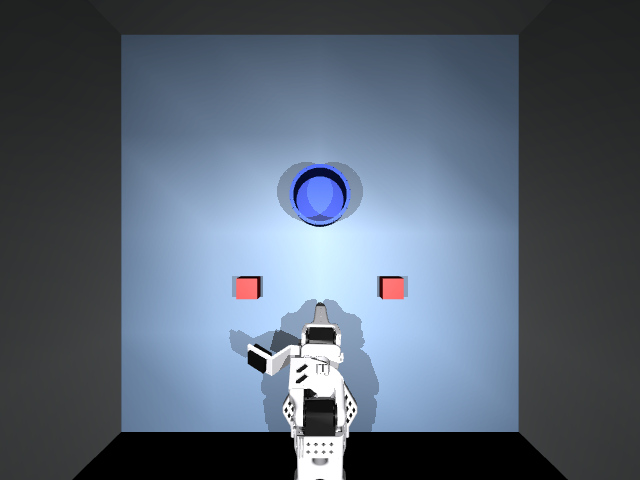
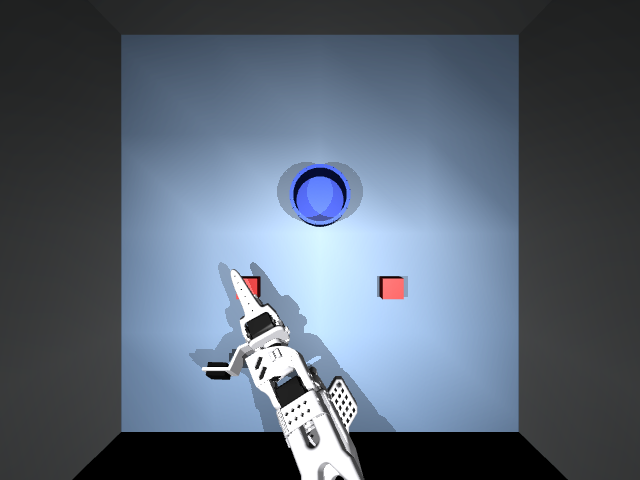
fix the gripper to not tough the table

Changed region(s): [[0.2812, 0.5312, 0.625, 1.0]]

diff --git a/sim2real_soarm/data/record.py b/sim2real_soarm/data/record.py
@@ -52,6 +52,7 @@ def record(
     seed: int = 0,
     use_dr: bool = True,
     max_attempts: int | None = None,
+    overwrite: bool = False,
     n_substeps: int = 17,
 ) -> dict:
     from lerobot.datasets.lerobot_dataset import LeRobotDataset
@@ -61,6 +62,19 @@ def record(
     from sim2real_soarm.sim.scene import Scene
 
     out = Path(out)
+    # Check before building the scene: LeRobot's create() requires a fresh dir,
+    # and doing this first keeps the error path clean (no renderer to tear down).
+    if out.exists():
+        if overwrite:
+            import shutil
+            shutil.rmtree(out)
+            print(f"Removed existing {out} (--overwrite).")
+        else:
+            raise SystemExit(
+                f"Output dir already exists: {out}\n"
+                f"  Pass --overwrite to replace it, or use a different --out."
+            )
+
     scene = Scene()
     expert = ScriptedExpert(scene)
     dr = DomainRandomizer(scene) if use_dr else None
@@ -135,11 +149,13 @@ def main(argv=None):
     p.add_argument("--seed", type=int, default=0)
     p.add_argument("--no-dr", action="store_true", help="disable domain randomization")
     p.add_argument("--max-attempts", type=int, default=None)
+    p.add_argument("--overwrite", action="store_true",
+                   help="replace the output dir if it already exists")
     args = p.parse_args(argv)
     record(
         num_episodes=args.num_episodes, out=Path(args.out), repo_id=args.repo_id,
         task=args.task, seed=args.seed, use_dr=not args.no_dr,
-        max_attempts=args.max_attempts,
+        max_attempts=args.max_attempts, overwrite=args.overwrite,
     )
 
 

diff --git a/sim2real_soarm/sim/scene.py b/sim2real_soarm/sim/scene.py
@@ -194,9 +194,12 @@ class Scene:
             contype=0, conaffinity=0, group=2,
         )
 
-        # True grasp point (between the fingers). The stock ``gripperframe`` site
-        # sits ~7.6 cm beyond the fingers, so IK must target this instead.
-        spec.body("gripper").add_site(name="tcp", pos=[0.017, 0.0, -0.022])
+        # Grasp reference at the FINGERTIP (the lowest gripper vertex). Targeting
+        # the fingertip at a table cube keeps the rest of the gripper above the
+        # table (~+20 mm clearance); targeting a point between the finger bases
+        # instead would drive the long fingers ~65 mm through the table, which is
+        # unsafe to reproduce on real hardware.
+        spec.body("gripper").add_site(name="tcp", pos=[-0.012, 0.0, -0.104])
 
         # Inactive welds used to model a reliable grasp (see attach/detach):
         # frictional grasping of a 3 cm cube is unreliable with this gripper's

diff --git a/README.md b/README.md
@@ -6,8 +6,8 @@ sibling real-data benchmarks, so the numbers drop straight into the same compari
 
 | Repo | Data source | Policy | Eval |
 |---|---|---|---|
-| [`multimodal-manipulation-benchmark`](../multimodal-manipulation-benchmark) | real demos | Diffusion Policy | Tier-A operator |
-| [`smolvla-soarm-benchmark`](../smolvla-soarm-benchmark) | real demos | SmolVLA | `soarm_eval` Tier-A operator |
+| [`multimodal-manipulation-benchmark`](https://github.com/yeeegem/multimodal-manipulation-benchmark) | real demos | Diffusion Policy | Tier-A operator |
+| [`smolvla-soarm-benchmark`](https://github.com/yeeegem/smolvla-soarm-benchmark) | real demos | SmolVLA | `soarm_eval` Tier-A operator |
 | **this repo** | **MuJoCo sim only** | LeRobot ACT (SmolVLA scaffolded) | `soarm_eval` Tier-A operator |
 
 ## The task